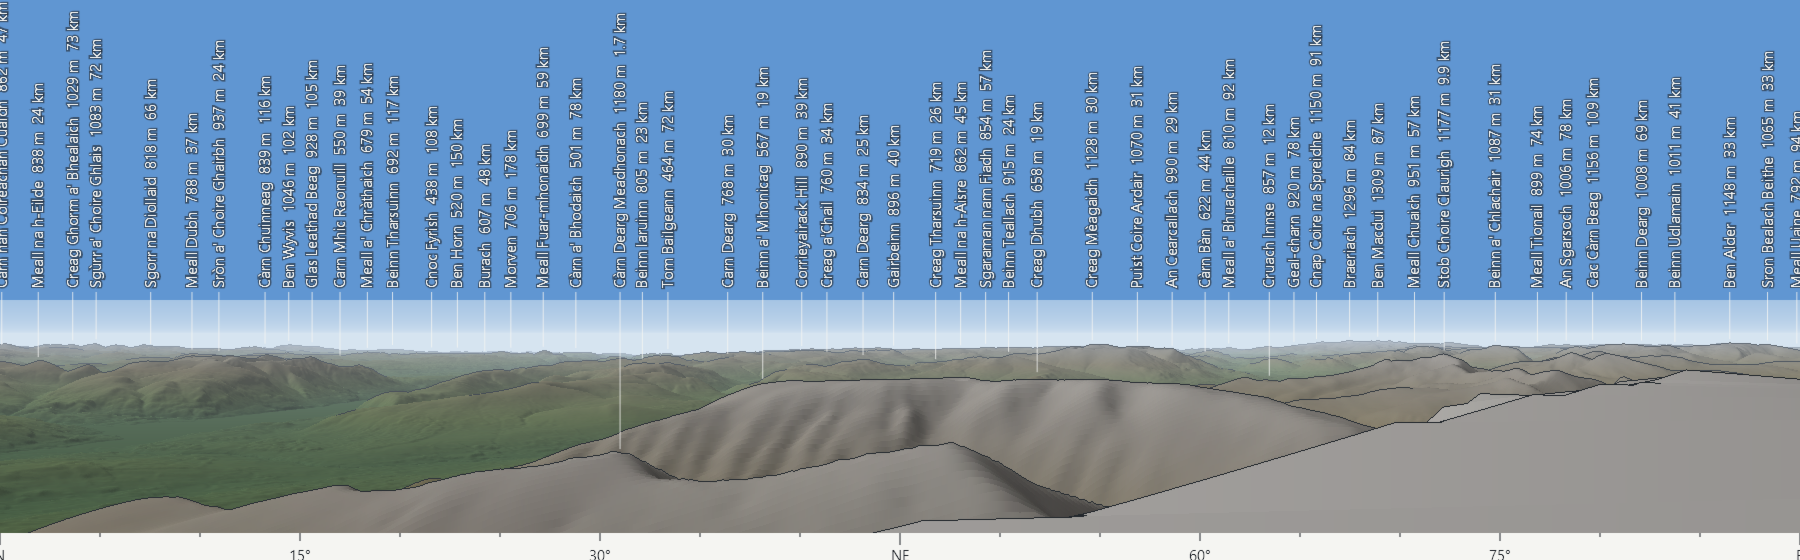
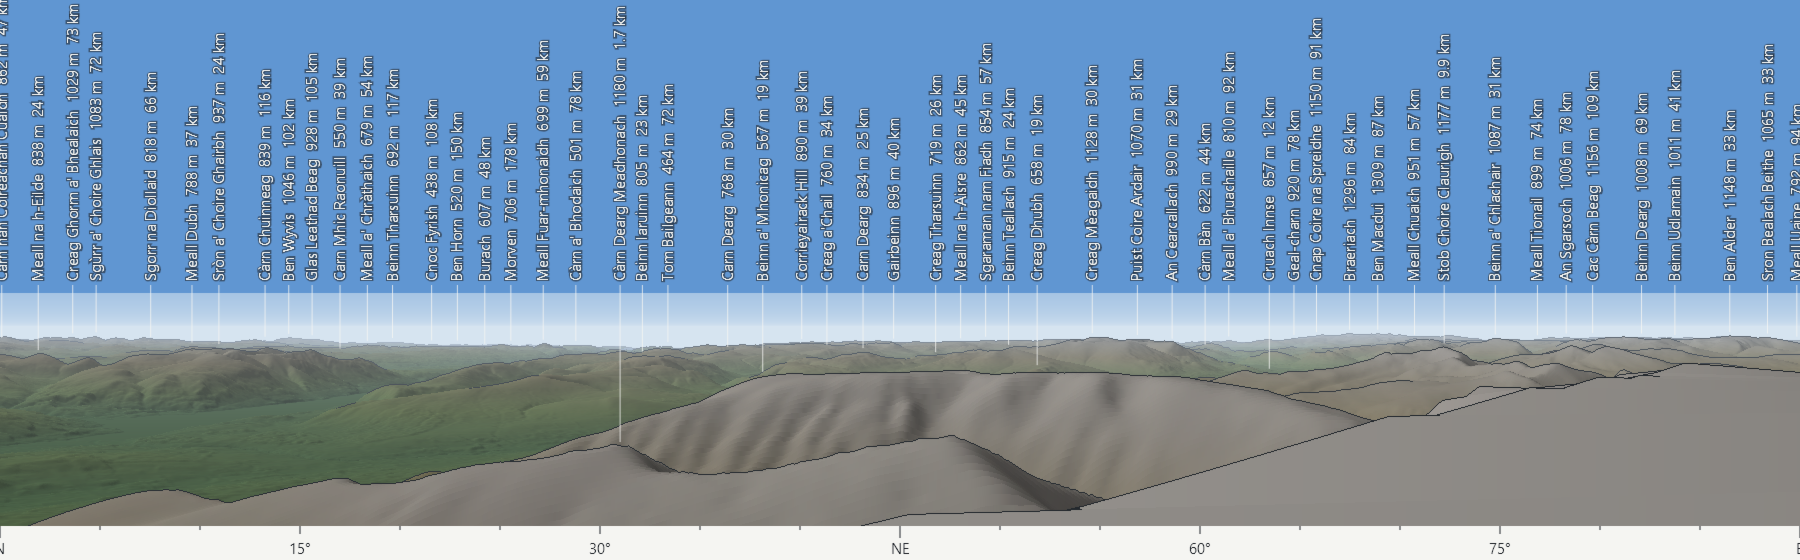
Fly the Norwegian fjords, and paint water in panoramas
The new route runs 36 km from Flam up the Aurlandsfjord and into the
Naeroyfjord, the pair that UNESCO lists as the West Norwegian Fjords,
ending under the walls at Gudvangen. Its waypoints follow the Flam to
Gudvangen ferry in OpenStreetMap, and the camera holds 300 m above the
water with the frame tilted up to take in walls that rise 1300 m from it.

The first frames showed the fjord as a green valley floor, because a
panorama's colors started at sea level with lowland green. It now paints
ground at or below sea level as water, the rule the viewshed map already
used, so sea lochs, estuaries and fjords read as water rather than grass.
The Ben Nevis panorama in the README is regenerated, though the view
between north and east holds no water to show.

diff --git a/src/Invicta.Terrain/Rendering/PanoramaPainter.cs b/src/Invicta.Terrain/Rendering/PanoramaPainter.cs
@@ -38,6 +38,9 @@ public static class PanoramaPainter
     private static readonly SKColor s_ink = new(30, 34, 40);
     private static readonly SKColor s_paper = new(245, 245, 242);
 
+    // Water, which the terrain model puts at exactly sea level.
+    private static readonly SKColor s_water = new(128, 158, 186);
+
     // Terrain colors by height, from lowland greens through bare rock to the snow of the high mountains.
     private static readonly (double Height, SKColor Color)[] s_heightColors =
     [
@@ -177,6 +180,11 @@ public static class PanoramaPainter
 
     private static SKColor HeightColor(double height)
     {
+        if (height <= 0)
+        {
+            return s_water;
+        }
+
         for (int i = 1; i < s_heightColors.Length; i++)
         {
             (double upperHeight, SKColor upperColor) = s_heightColors[i];

diff --git a/README.md b/README.md
@@ -161,13 +161,16 @@ invicta-terrain-flyover Routes/grand-canyon.json .cache frames
 
 ![The Matterhorn at the end of the flight, with Monte Rosa behind it][matterhorn]
 
-- **The routes:** a route is a JSON file of waypoints and the camera's settings, so a new flight needs no code. Two
-  come with the sample: `alps.json` flies 55 km from Chamonix to the Matterhorn, and `grand-canyon.json` follows
-  39 km of the Colorado River through the Grand Canyon, its waypoints taken from OpenStreetMap.
+- **The routes:** a route is a JSON file of waypoints and the camera's settings, so a new flight needs no code. Three
+  come with the sample: `alps.json` flies 55 km from Chamonix to the Matterhorn, `grand-canyon.json` follows 39 km of
+  the Colorado River through the Grand Canyon, and `norwegian-fjords.json` runs 36 km from Flåm up the Aurlandsfjord
+  into the Nærøyfjord. The two that follow water take their waypoints from OpenStreetMap: the river itself, and the
+  Flåm to Gudvangen ferry.
 - **The camera:** it stays the route's clearance above the highest ground within its look-ahead distance, averaged
   across neighbouring frames so that it climbs and turns gradually. Over the Alps that is 900 m above the ground
   7 km ahead, which carries it over the ridges; down the Colorado it is 350 m above the ground 1.6 km ahead, which
-  keeps it between the walls of the gorge instead of climbing over the rim.
+  keeps it between the walls of the gorge instead of climbing over the rim; along the fjords it is 300 m above the
+  water, with the frame tilted further up again to take in walls that rise 1,300 m from it.
 - **The summits:** each frame names the most prominent summits it shows, leaving out any whose label would overlap
   one already placed. Naming them per frame makes the labels flicker a little as summits come in and out of view.
 - **The video:** the sample writes JPEG frames for a video tool to assemble.
@@ -177,6 +180,8 @@ ffmpeg -framerate 60 -i frame%05d.jpg -c:v libx264 -crf 20 -pix_fmt yuv420p flyo
 ```
 
 ![Flying down the Colorado between the walls of the Grand Canyon][canyon]
+
+![The end of the flight, in the Nærøyfjord at Gudvangen][fjords]
 
 ## Accuracy and limitations
 
@@ -212,6 +217,7 @@ Open Database License.
 [cruachan]: docs/images/ben-cruachan-to-slieve-donard.png
 [matterhorn]: docs/images/chamonix-to-matterhorn.jpg
 [canyon]: docs/images/grand-canyon.jpg
+[fjords]: docs/images/norwegian-fjords.jpg
 [copernicus]: https://registry.opendata.aws/copernicus-dem/
 [osm]: https://www.openstreetmap.org/copyright
 [overpass]: https://wiki.openstreetmap.org/wiki/Overpass_API
